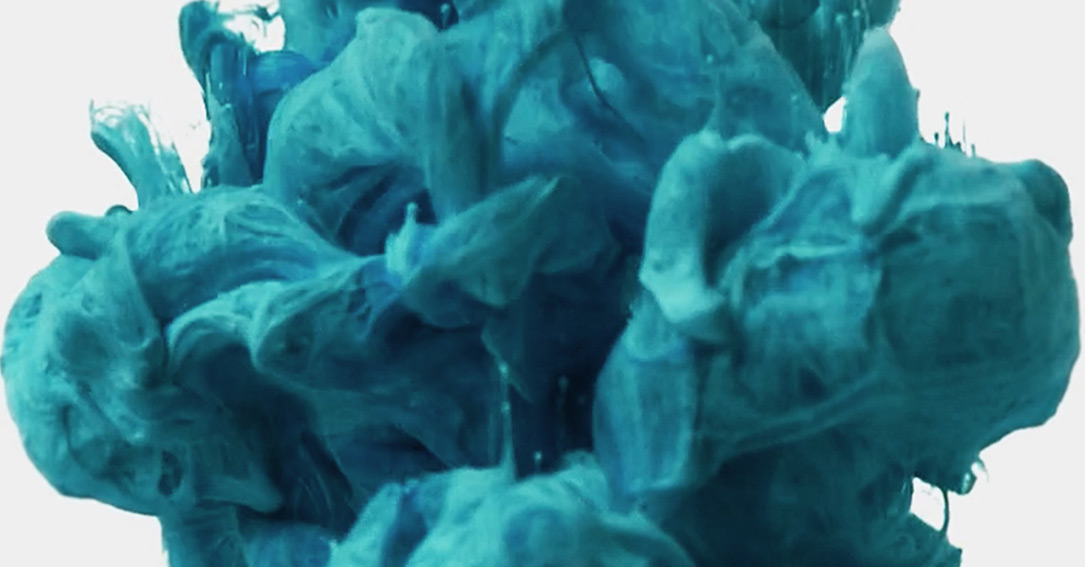
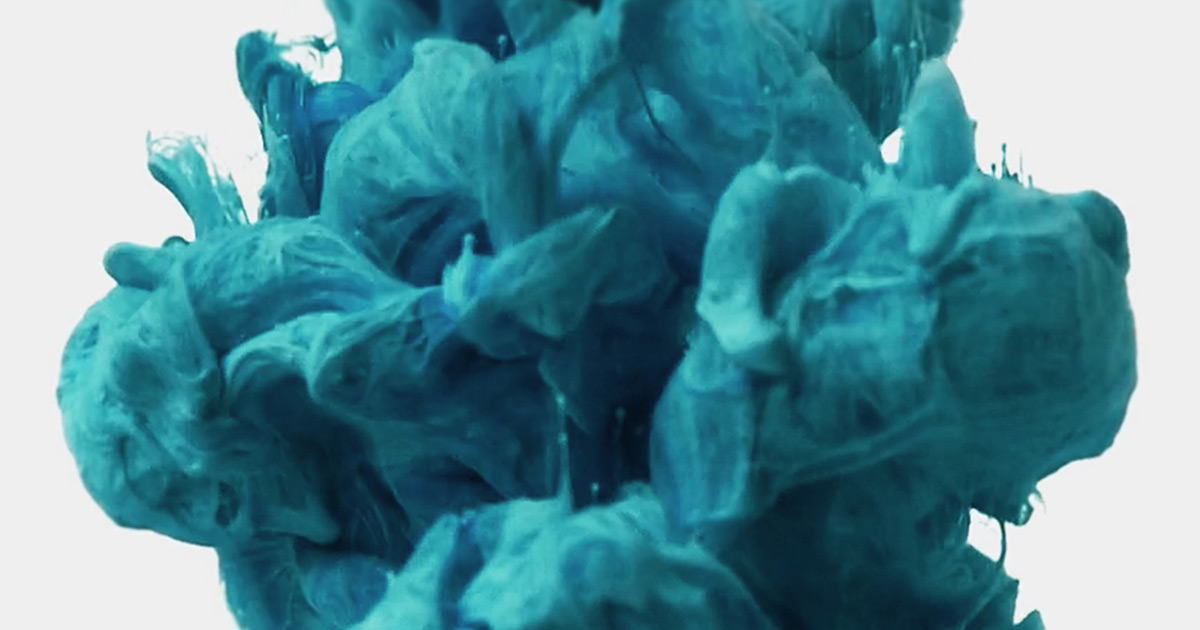
changed dreamboard image to 1200x630 for facebook

diff --git a/app/Services/DreamboardRenderer.php b/app/Services/DreamboardRenderer.php
@@ -36,14 +36,14 @@ class DreamboardRenderer {
     public function renderToImage() {
         $images = [];
         $dreamboardImage = new Imagick();
-        $width = 1085;
+        $width = 1200;
         /*
          * rowWidth: 862
          * totalWidth: 1085
          * 111
          * gutter: 27
          * */
-        $height = 567;
+        $height = 630;
         $imageWidth = 195;
         $imageHeight = 129;
         $gutter = 20;
@@ -56,16 +56,16 @@ class DreamboardRenderer {
             if($key !== 'image_main') {
                 $image = new Imagick(public_path('uploads/dreamboard/'.$this->user->id.'/'.$imageName));
                 $image->scaleImage($imageWidth, $imageHeight);
-                $x = $this->positions[$key]['x'];
-                $y = $this->positions[$key]['y'] + 50;
+                $x = $this->positions[$key]['x'] + 57;
+                $y = $this->positions[$key]['y'] + 81;
                 $dreamboardImage->compositeImage($image, imagick::COMPOSITE_OVER, $x, $y);
             }
         }
 
         $image = new Imagick(public_path('uploads/dreamboard/'.$this->user->id.'/'.$this->dreamboard->image_main));
         $image->scaleImage($this->positions['image_main']['width'], $this->positions['image_main']['height']);
-        $x = $this->positions['image_main']['x'];
-        $y = $this->positions['image_main']['y'] + 50;
+        $x = $this->positions['image_main']['x'] + 57;
+        $y = $this->positions['image_main']['y'] + 81;
         $dreamboardImage->compositeImage($image, imagick::COMPOSITE_OVER, $x, $y);
 
 
